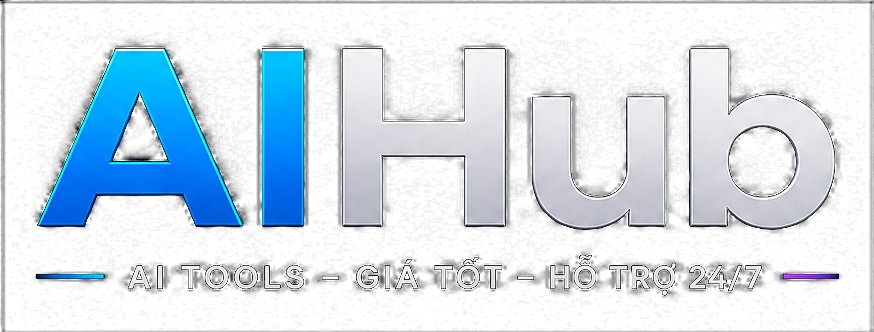
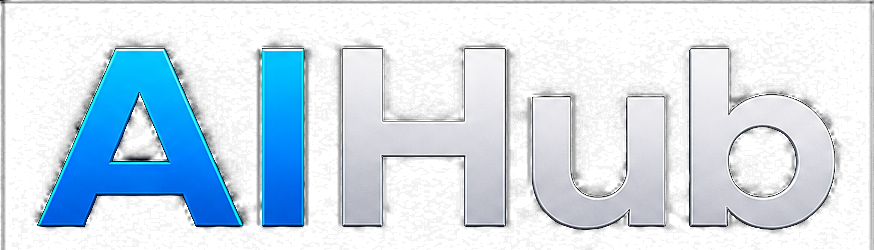
Enlarge tagline as live scalable text; crop wordmark image to just AIHub

diff --git a/index.html b/index.html
@@ -40,8 +40,10 @@
   .nav-inner{display:flex;align-items:center;justify-content:space-between;padding:14px 24px;max-width:1080px;margin:0 auto;}
   .logo{display:flex;align-items:center;gap:14px;}
   .logo-icon{height:52px;width:auto;display:block;flex:none;}
-  .logo-text-img{height:38px;width:auto;display:block;flex:none;}
-  @media (max-width:480px){.logo-icon{height:40px;}.logo-text-img{height:28px;}}
+  .logo-text{display:flex;flex-direction:column;gap:5px;}
+  .logo-text-img{height:30px;width:auto;display:block;}
+  .logo-tagline{font-size:13px;font-weight:700;letter-spacing:1px;color:var(--blue-400);white-space:nowrap;}
+  @media (max-width:480px){.logo-icon{height:40px;}.logo-text-img{height:24px;}.logo-tagline{font-size:9.5px;}}
   .nav-links{display:flex;gap:28px;font-size:14.5px;color:var(--ink-300);}
   .nav-links a:hover{color:#fff;}
   .nav-cta{display:flex;align-items:center;gap:10px;}
@@ -182,7 +184,10 @@
   <div class="nav-inner">
     <a href="#" class="logo">
       <img src="img/aihub-icon.png" alt="AIHub" class="logo-icon" />
-      <img src="img/aihub-text.png" alt="AIHub — AI Tools, Giá tốt, Hỗ trợ 24/7" class="logo-text-img" />
+      <span class="logo-text">
+        <img src="img/aihub-text.png" alt="AIHub" class="logo-text-img" />
+        <span class="logo-tagline">AI TOOLS – GIÁ TỐT – HỖ TRỢ 24/7</span>
+      </span>
     </a>
     <div class="nav-links">
       <a href="#products">Sản phẩm &amp; Giá</a>